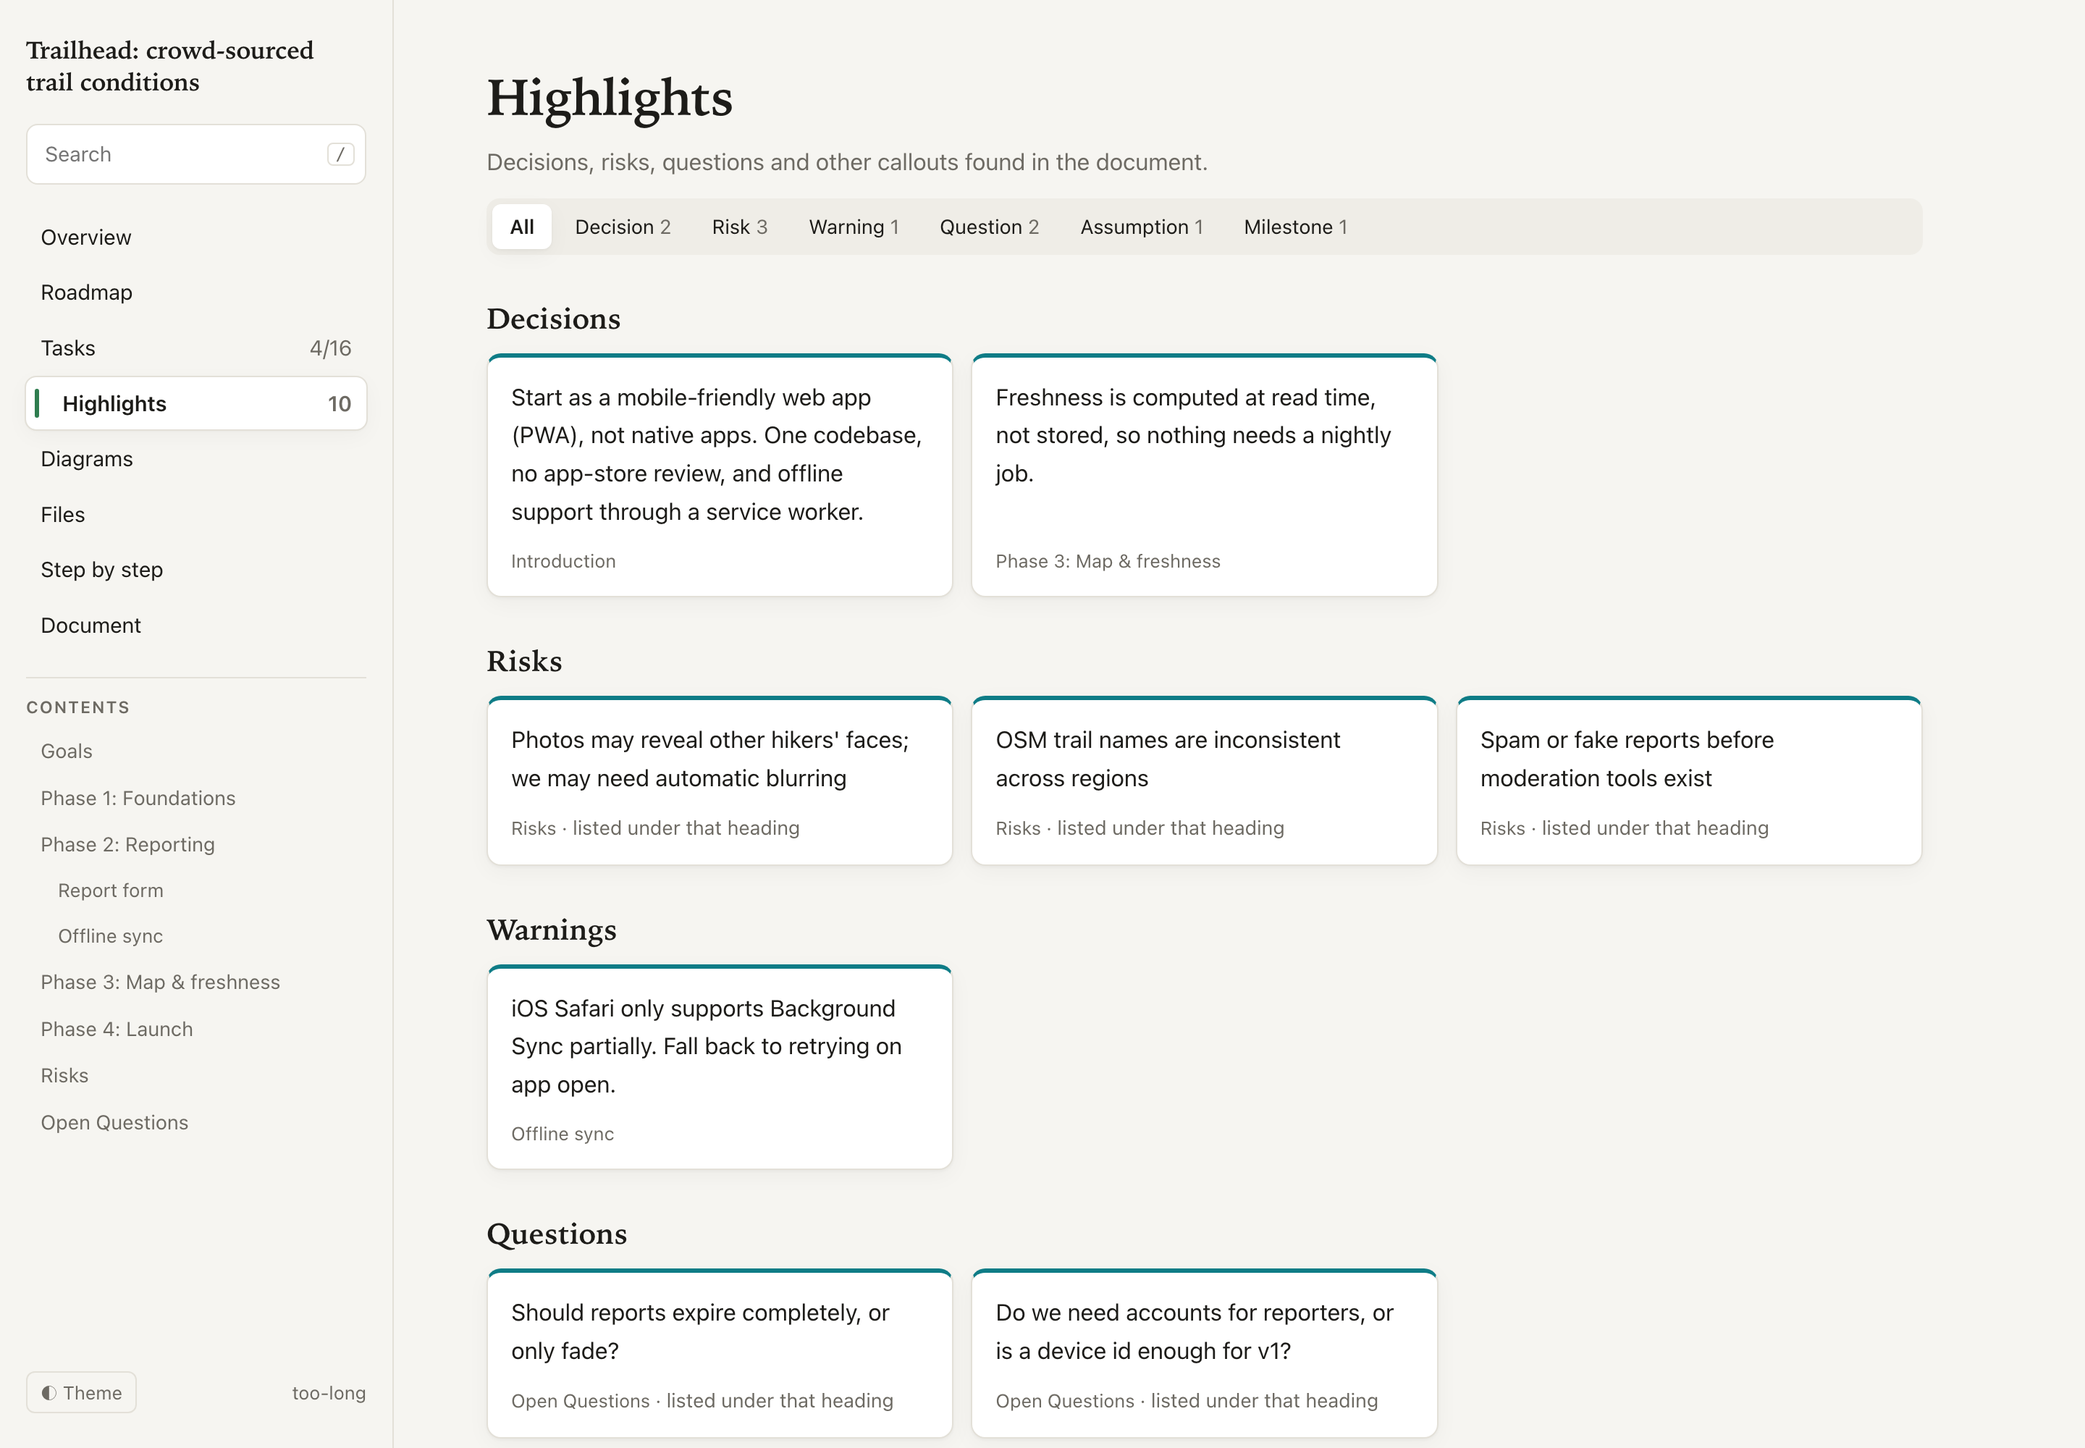
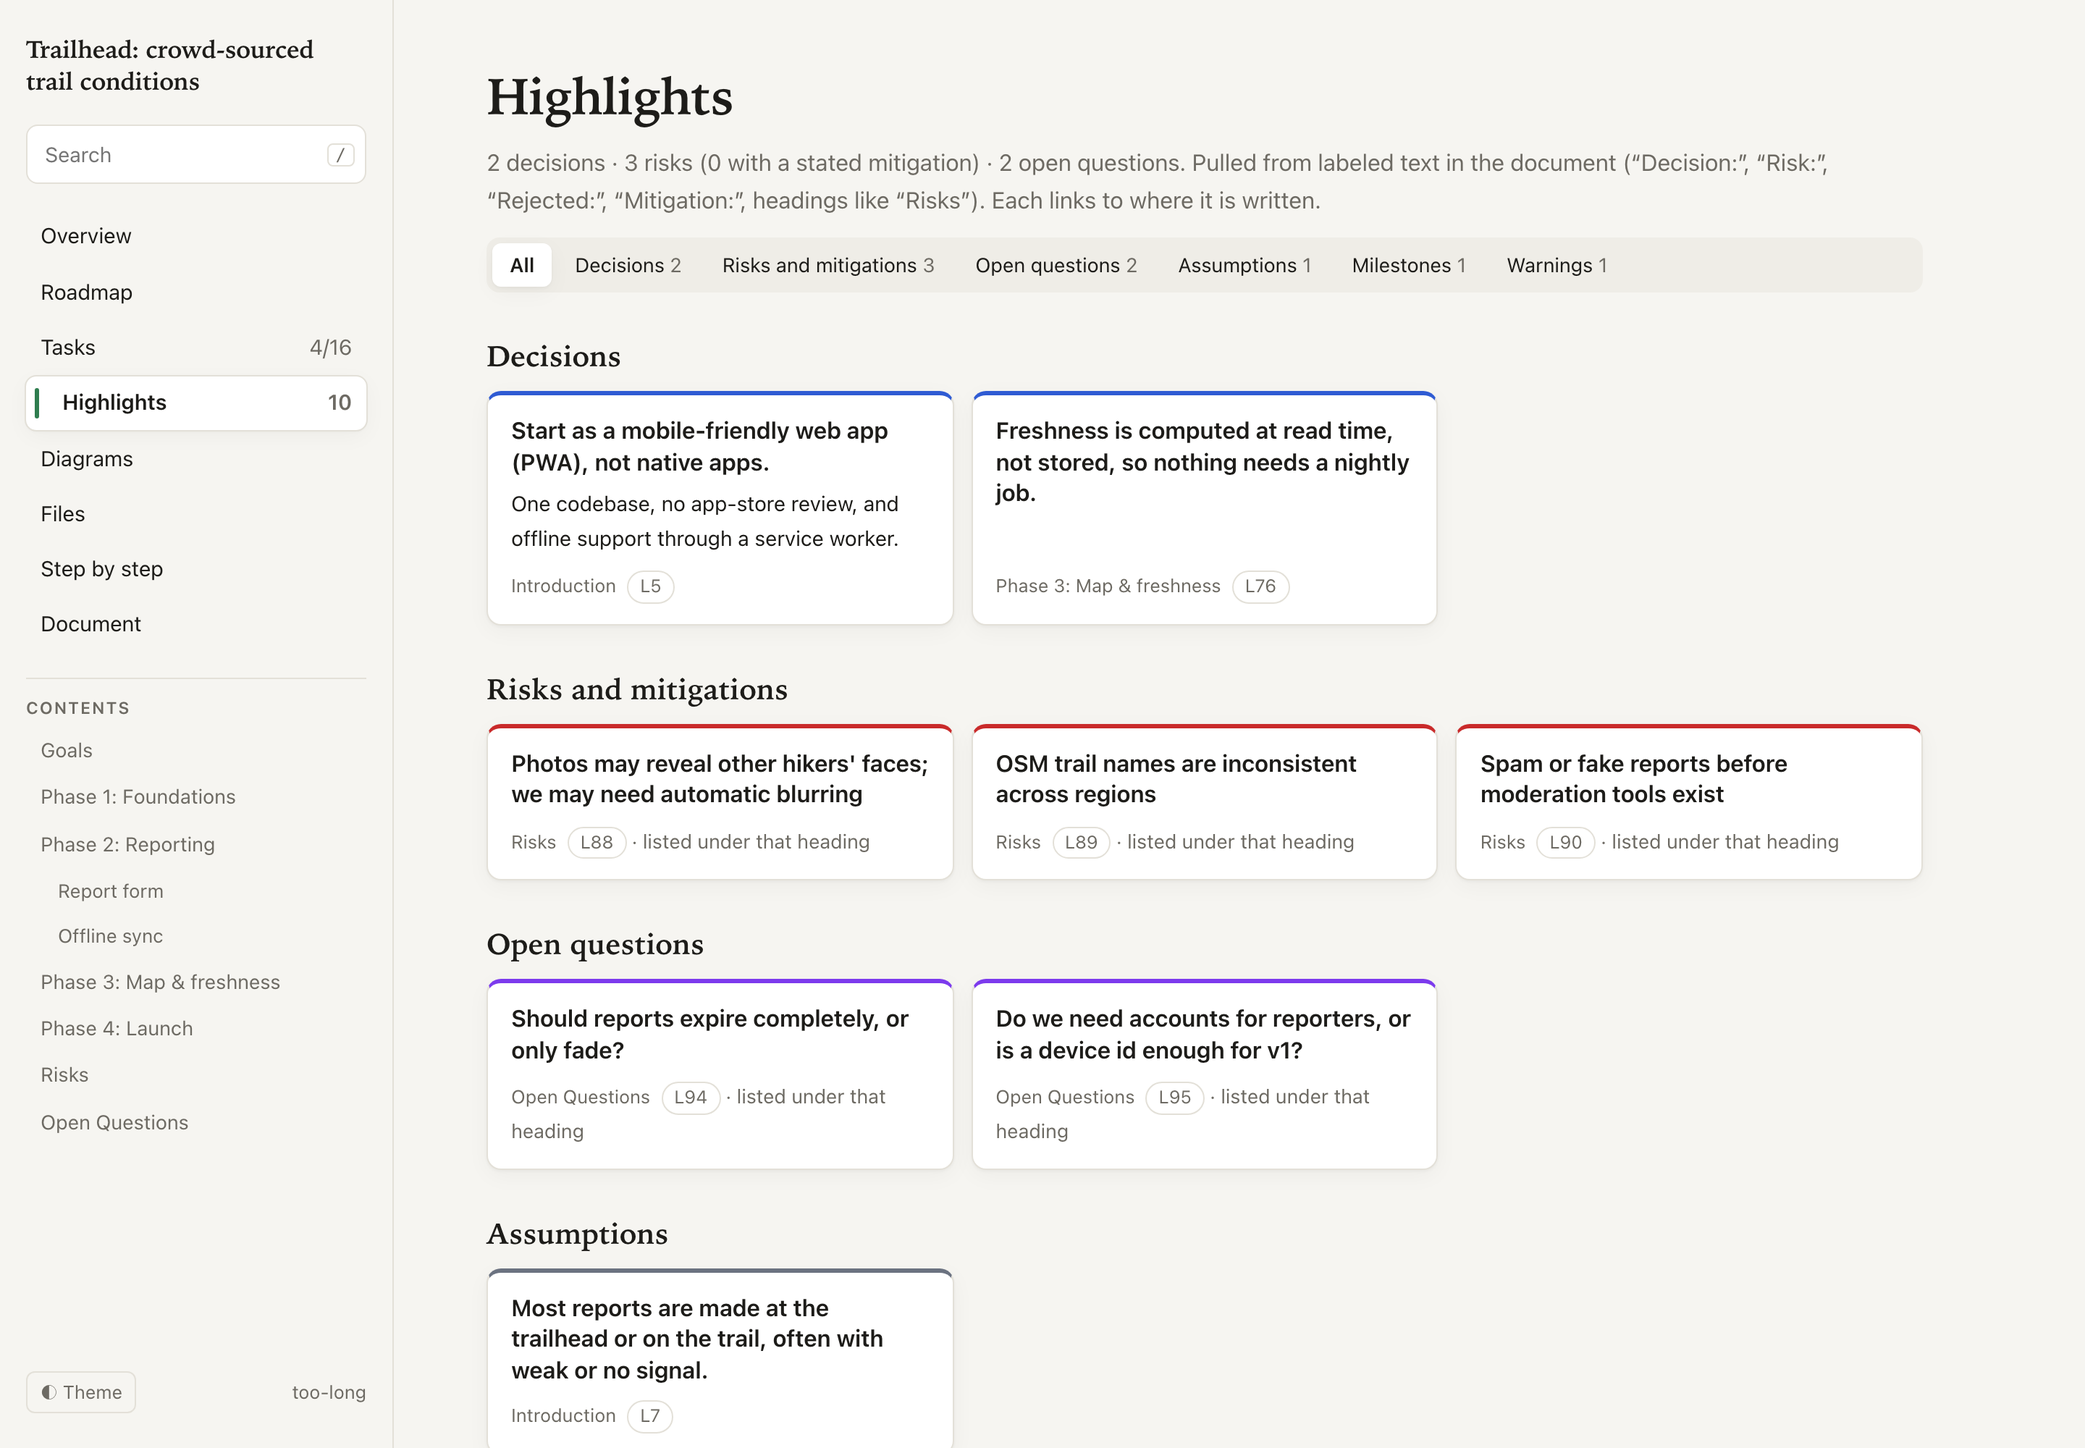
docs: explain semantic extraction, dependencies, status and file rules
README gains 'What it extracts': the supported decision formats and
how Rejected/Tradeoff/Rationale attach; risks with mitigations,
likelihood and impact; when headings classify bullets and when they
don't; how stage dependencies are read (partial, parallel, unknown,
missing, cycles); the roadmap status table; file reference merging and
on-disk status; and what is deterministic versus inferred. The config
table documents 'dependencies', the views table and troubleshooting
reflect the new behaviour, and limits say plainly that only explicit
labels are extracted.

docs/model.md documents how viewers compute roadmap status;
docs/architecture.md adds highlights.py and roadmap.py and the
'explicit labels, not guesses' decision. The highlights screenshot is
re-captured from the example site built by this version.

diff --git a/README.md b/README.md
@@ -124,7 +124,7 @@ The generated site is committed in [`examples/trailhead-site/`](examples/trailhe
 
 ![Tasks view](docs/screenshots/tasks.png)
 
-**Highlights:** decisions, risks, warnings, assumptions, questions and milestones pulled out as cards, each linking back to where it appears.
+**Highlights:** decisions with their rejected alternatives and tradeoffs, risks with their mitigation, open questions, assumptions and milestones, each linking back to where it appears.
 
 ![Highlights view](docs/screenshots/highlights.png)
 
@@ -170,11 +170,11 @@ Only the views that fit the document and your goal are generated.
 |---|---|
 | Overview | Title, TL;DR, stats, intro, section cards with progress |
 | Document | The whole document. Always included |
-| Roadmap | Stages as a timeline with status and current focus |
+| Roadmap | Stages with progress; when the plan states dependencies, what each stage needs, ready/blocked status and parallel waves |
 | Tasks | All checkboxes (or numbered steps you choose to track), with progress |
-| Highlights | Decisions, risks, warnings, questions, assumptions, milestones |
+| Highlights | Decisions with their rejected alternatives, risks with likelihood/impact and mitigation, open questions, assumptions, milestones |
 | Diagrams | Mermaid from the document + inferred diagrams |
-| Files | Tree of every file path the document mentions |
+| Files | Tree of every file path the document mentions, merged when written two ways, marked on disk / not on disk / ambiguous |
 | Step by step | One section at a time, for learning or presenting |
 
 Every site has search, light/dark mode, works on phones, and has a Source view (`#/source/<line>`) showing the Markdown exactly as written; the "L42" links on tasks, highlights, diagrams and files open it at that line.
@@ -210,6 +210,7 @@ Claude writes `.too-long/config.json`; you can edit it too. Every field is optio
 | `diagrams` | `[{title, description, mermaid, sources: [section-id]}]`. Inferred. |
 | `roadmap` | Section ids to use as roadmap stages, when heading detection picks the wrong ones. |
 | `track` | Section ids whose numbered `1. 2. 3.` steps become tasks. |
+| `dependencies` | `{stage-id: [stage-ids]}`: what a roadmap stage needs, when the document doesn't say it on a `Dependencies:` line. Replaces what was found for that stage; shown as inferred. |
 
 Section ids come from `too_long.py parse plan.md`. A config that cites an unknown id is refused when it is new. If the config was valid and a heading was renamed later, the build continues and warns instead. The page template lives in `assets/` (`index.html`, `styles.css`, `app.js`, plain HTML/CSS/JS); change it there to customise every site.
 
@@ -223,8 +224,57 @@ too-long uses its own small parser (Python standard library only), so the suppor
 - Tables: pipe tables, with `\|` and `` `a|b` `` inside cells.
 - Links: inline `[text](url)`, reference `[text][ref]` / `[ref]`, `<https://…>` and bare URLs, plus images.
 - Other blocks: blockquotes, GitHub alerts (`> [!WARNING]`), horizontal rules, YAML front matter.
-- Callouts: paragraphs or bullets starting with `Decision:`, `Risk:`, `Warning:`, `Question:`, `Note:`, `Assumption:`, `Milestone:`, and bullets under headings like "Risks" or "Open questions".
+- Highlights: see [What it extracts](#what-it-extracts) below.
 - Not supported: raw HTML (shown as text), footnotes, definition lists. An unclosed code fence runs to the end of the file (as in CommonMark) and is reported as a warning.
+
+## What it extracts
+
+Everything below is deterministic: plain rules over the text, no LLM, re-run on every build. The rules are conservative: when the text doesn't say something explicitly, too-long leaves it out rather than guess. It stays visible in the Document view either way.
+
+**Decisions.** Any of these is one decision:
+
+```markdown
+Decision: Use PostgreSQL.
+**Decision:** Keep the API stateless.
+**Decision 3 — Short leases with heartbeat renewal.**
+### Decision 2: Fenced claims
+## Decision            (ADR style: the section is the decision)
+```
+
+The labeled statement is the decision. Labels that follow it belong to it: `Rejected:` (inline, or the list after it) becomes the rejected alternatives, and `Tradeoff:`, `Rationale:`/`Why:`, `Consequences:`, `Context:`, `Status:` become details. A numbered decision inside a "Decisions" section, or a decision heading, also keeps the unlabeled paragraphs after it. Bullets under a "Decisions" heading count as decisions only when the section has no explicitly labeled ones, so a list of rejected alternatives never becomes a list of decisions.
+
+**Risks, questions, assumptions, milestones, warnings** use the same labels (`Risk:`, `Open question:`, `Assumption:`, `Milestone:`, `> [!WARNING]`). A `Mitigation:`, `Contingency:`, `Likelihood:`, `Impact:`, `Owner:` or `Answer:` belongs to the highlight right before it: in the same sentence run, the next paragraph, the next bullet, or a child bullet. It is never a highlight of its own. A table whose first column is "Risk" (or one under a "Risks" heading) gives one risk per row, with the other columns as details; `Likelihood / Impact` cells like `M / H` split in two. A bold label later in a sentence (`... **Milestone:** M1 alpha.`) is found too. Bullets under a heading that names two kinds ("Risks and decisions") are left unclassified unless labeled.
+
+**Stage dependencies.** A stage's `Dependencies:` / `Depends on:` / `Requires:` / `Prerequisites:` / `Blocked by:` line is read as follows:
+
+- The first sentence lists what the stage needs: `P2, P3`, `Phase 1`, `P1–P3`, an exact stage title, `All prior phases`, or `None`.
+- A later sentence with "needs", "requires" or "after" adds a *partial* dependency (shown, but never blocking).
+- "Can run in parallel with P7" records parallel stages, never dependencies.
+- A line that names no stage leaves the dependencies unknown, with a warning.
+- References to missing stages and dependency cycles are reported.
+
+When the text implies dependencies without labeling them, Claude can state them in config `dependencies`; they are then marked inferred.
+
+**Roadmap status:**
+
+| Status | When |
+|---|---|
+| done | every task in the stage is checked |
+| in progress | some tasks are checked |
+| ready | nothing checked yet, and every stage it needs (stated or from config) is done |
+| blocked | nothing checked yet, and a stage it needs is not done |
+| not started | nothing checked yet, and its dependencies are unknown, part of a cycle, or depend on a stage without tasks; no ready/blocked claim is made |
+
+Partial dependencies never block. If every stage's dependencies are known, stages are grouped into waves that can run in parallel. A plan that states no dependencies keeps the simple order: the first unfinished stage is the current one.
+
+**File references.**
+
+- `src/x/{a,b}.py` expands to two files.
+- A short reference (`config.py`, `db/models.py`) is merged with the one longer path in the document it ends with. If it could be several files, it stays separate and lists the candidates. `../` and absolute paths are never merged.
+- Each path is then looked up from the git repository root, or, outside a repository, from the Markdown's folder, and marked **on disk**, **not on disk** (a file the plan will create, or a misspelled path; never assumed to exist), or **ambiguous**.
+- In a git repository, a short reference that matches exactly one file there links to it.
+
+**Deterministic vs inferred.** Everything above comes from the document and links to its source line. Only what Claude writes in `config.json` (TL;DR, notes, diagrams, `dependencies`) is inferred, and the site labels it that way. The JSON model is documented in [`docs/model.md`](docs/model.md).
 
 ## Faithful to the source
 
@@ -277,10 +327,11 @@ python3 scripts/run_tests.py
 This runs everything:
 
 - golden-file parser tests over readable fixtures in `tests/fixtures/`
+- semantic snapshots of realistic plans (`tests/test_semantic.py`, `tests/golden/semantic/`): which decisions, rejected alternatives, mitigations, stage dependencies and merged file references are extracted. Excerpts of TaskForge, a 7,800-word implementation plan used for testing, are among the fixtures
 - unit tests for identity, config, regeneration, sync, the server and the CLI
 - browser tests (`tests/e2e.test.mjs`) that build sites and drive headless Chrome over the DevTools protocol, with no npm packages
 
-The browser tests need Node 22+ and Chrome and skip themselves without them. After an intended parser change, regenerate the golden files with `python3 tests/test_golden.py --update` and review the diff.
+The browser tests need Node 22+ and Chrome and skip themselves without them. After an intended parser change, regenerate the golden files with `python3 tests/test_golden.py --update` and `python3 tests/test_semantic.py --update`, and review the diff.
 
 ## Troubleshooting
 
@@ -293,6 +344,9 @@ The browser tests need Node 22+ and Chrome and skip themselves without them. Aft
 | Ticking a task doesn't change the Markdown | That only happens with `too_long.py serve`; a page opened from disk saves checks in the browser. |
 | "The Markdown changed since this page loaded" | Someone (or Claude) edited the file; the page reloads, then tick again. |
 | `Could not listen on 127.0.0.1:8765` | Something else uses the port: `serve plan.md --port 8766`. |
+| A decision or risk is missing from Highlights | It needs an explicit label (`Decision:`, `**Decision 3 —**`, `Risk:`...) or a "Decisions"/"Risks" heading; unlabeled prose is left in the Document view on purpose. |
+| A stage shows "not started" instead of ready/blocked | Its dependencies aren't stated (or the line names no stage). Add a `Dependencies:` line, or have Claude set config `dependencies`. |
+| A file shows "not on disk" | It isn't at that path from the repository root (or the Markdown's folder). Planned files are expected to show this. |
 | Checks disappeared after a rebuild | The task's text changed, or `.too-long/build.json` was deleted; too-long won't carry a check over to a task it can't match with confidence. |
 | Video tools missing | `too_long.py doctor` lists what's missing and the install command for your OS. |
 
@@ -302,6 +356,7 @@ The browser tests need Node 22+ and Chrome and skip themselves without them. Aft
 - Opened as a file, task checks are stored in the browser only; writing them to the Markdown needs `serve`.
 - Raw HTML inside the Markdown is shown as text.
 - The parser covers the subset above, not all of CommonMark.
+- Highlights and dependencies are found from explicit labels only. A decision written as plain prose, or a dependency implied but not labeled, is not extracted (Claude can add dependencies through the config).
 
 ## License
 

diff --git a/docs/architecture.md b/docs/architecture.md
@@ -21,10 +21,12 @@ interfaces:  build.py   watch.py (PollingWatcher → Debouncer → Regenerator) 
 
 | Module | Responsibility | Depends on |
 |---|---|---|
-| `parse.py` | Markdown → blocks and indexes (tasks, callouts, diagrams, files), each with its source line. Reads files (`read_markdown`, clear errors). | stdlib |
+| `parse.py` | Markdown → blocks and indexes (tasks, diagrams, files), each with its source line; merges shortened file references. Reads files (`read_markdown`, clear errors). | highlights |
+| `highlights.py` | Labels → structured highlights: decisions with rejected alternatives and details, risks with mitigations, questions, milestones. Conservative: explicit labels only. | stdlib |
+| `roadmap.py` | Stage dependencies from labeled lines (and config), parallel stages, cycles. | highlights |
 | `config.py` | Load and validate the config (`ConfigError`), mark inferred content, compute staleness stamps. | parse |
 | `identity.py` | `doc_id` per output folder; reconcile task ids with the previous build; `build.json`. | stdlib |
-| `model.py` | `build_document(md, config, manifest, out)`: one pure function producing the documented model (`docs/model.md`); `check_invariants`. | parse, config, identity |
+| `model.py` | `build_document(md, config, manifest, out)`: one function producing the documented model (`docs/model.md`), including stage dependencies and whether referenced files exist; `check_invariants`. Writes nothing. | parse, config, identity, roadmap |
 | `website.py` | Write the template and `data.js`, only the files whose bytes changed. | identity |
 | `regen.py` | `Regenerator`: refresh when inputs changed, one refresh at a time, notify subscribers. | model, website, config |
 | `sync.py` | `update_task`: the only code that writes the Markdown. | model, config, identity |
@@ -65,6 +67,11 @@ changes, keeping its route (hash), scroll position and browser-only state.
   with a text hash so it never moves to a different task.
 - **Strict writes.** `update_task` refuses on any revision mismatch rather than merging. A retry is
   cheap; silently overwriting someone's edit is not.
+- **Explicit labels, not guesses.** Highlights and dependencies come from labels in the text
+  ("Decision 3 —", "Rejected:", "Mitigation:", "Dependencies: P2"). Prose that implies a
+  relationship is left for Claude, who can state it in the config, where it is marked inferred.
+  When a rule can't decide (two kinds in one heading, a dependency line naming no stage, a short
+  file name matching two paths), the content is left unclassified rather than misfiled.
 - **No LLM in the loop.** Rebuilding is deterministic. Inferred content (TL;DR, notes, diagrams) is
   flagged as stale when its sources change, never regenerated automatically.
 - **Security.**
@@ -86,6 +93,7 @@ An editor integration (for example a side panel that shows the current plan) nee
 | Layer | File | Covers |
 |---|---|---|
 | Parser | `tests/test_golden.py`, `test_parse.py`, `test_traceability.py` | fixtures vs golden JSON, nothing dropped, large plans, line numbers |
+| Meaning | `test_highlights.py`, `test_roadmap.py`, `test_files.py`, `test_semantic.py` | decision/risk formats, dependency graphs, file merging and status, snapshots of realistic plans |
 | Core | `test_identity.py`, `test_build.py`, `test_regen.py` | ids across edits, config rules, regeneration, debounce, watcher swap, staleness, model invariants |
 | Writes | `test_sync.py`, `test_serve.py` | byte-exact edits, conflicts, cross-process locking, HTTP guards |
 | CLI | `test_cli.py` | actionable errors, doctor |

diff --git a/docs/model.md b/docs/model.md
@@ -77,6 +77,14 @@ dependency applies to part of the stage ("The API fast path needs P4."). `roadma
 `{stage: [stage]}` from sentences about running in parallel. `roadmap.cycles` lists dependency
 cycles. These keys are added by `model.build_document` (not by `parse.build_model` alone).
 
+### Roadmap status (computed by the viewer)
+
+Status depends on live checkbox state, so viewers compute it: `done` when every task of the stage
+is checked, `in progress` when some are; otherwise `ready` when every non-qualified dependency is
+`done`, `blocked` when one is not (and has tasks), and `not started` with no ready/blocked claim
+when the stage's dependencies are unknown, in a cycle, or wait on a stage without tasks. Without
+any stated dependencies, the first unfinished stage is current and the rest are upcoming.
+
 ## Invariants
 
 1. Task ids are unique, and the ids in `tasks` are exactly the ids on task items in the blocks.
